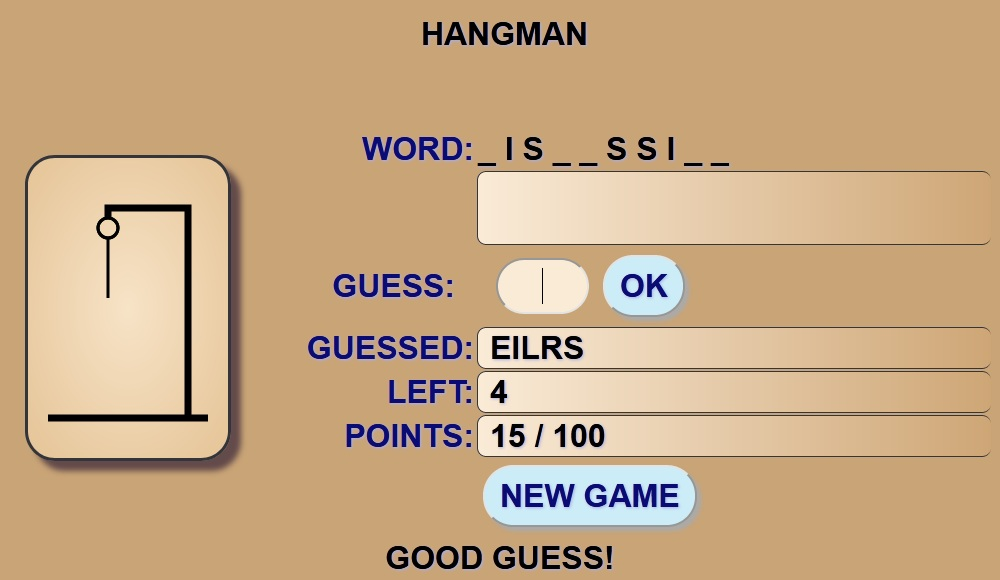
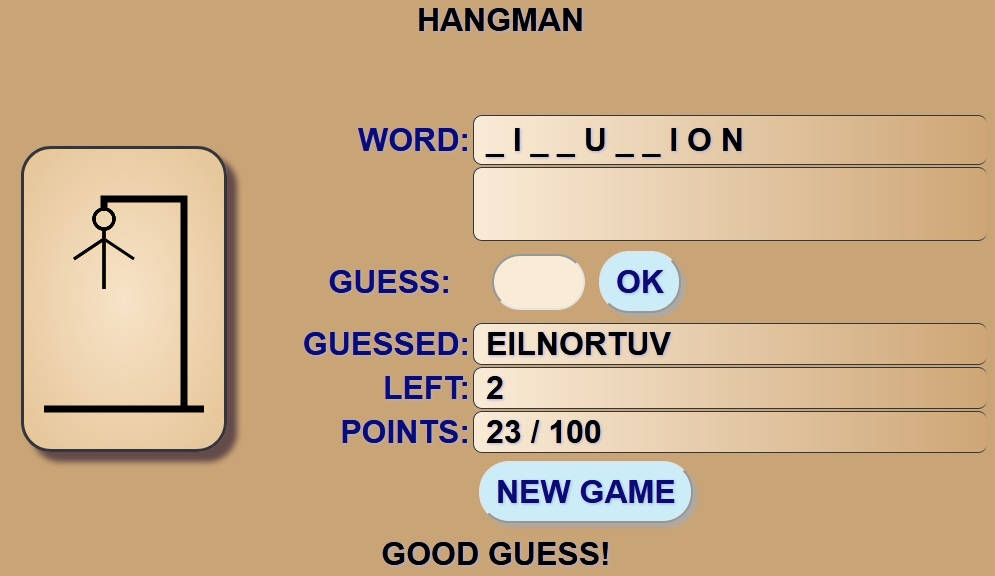
Minor color fix

diff --git a/index.html b/index.html
@@ -21,7 +21,7 @@
             background-image: radial-gradient(rgb(247, 227, 199), rgb(229, 196, 151));
         }
         button{
-            background-color:rgb(204, 236, 247);
+            background-color:rgb(209, 235, 245);
             box-shadow: 4px 4px 3px #aaaaaa;
             border-radius: 10px;
             border-radius: 30px;
@@ -45,6 +45,10 @@
             border-style: solid none solid solid;
             border-color: rgb(52, 52, 59);
             border-width: 1px;
+        }
+        #word{
+            padding-top: 5px;
+            padding-bottom: 5px;
         }
         #userInput{
             text-align: center;
@@ -77,7 +81,7 @@
                 <table border="0" width="100%">
                     <tr>
                         <td width="10%" align="right" class="label">&nbsp;Word:</td>
-                        <td width="90%" id="word">&nbsp;_ _ _ _ _ _ _ _ _ _</td>
+                        <td width="90%" id="word" class="textBox">&nbsp;_ _ _ _ _ _ _ _ _ _</td>
                     </tr>
                     <tr>
                         <td width="10%" align="right" class="label">
